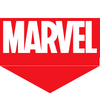
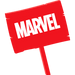
feat: upadate image marker maps

diff --git a/src/pages/Maps/index.tsx b/src/pages/Maps/index.tsx
@@ -148,7 +148,7 @@ function MapsPage() {
               {markers.map((marker: any, key: number) => (
                 <Marker
                   position={marker}
-                  icon={`./markerMarvel2.png`}
+                  icon={`./markerMarvel.png`}
                   key={key}
                 />
               ))}
